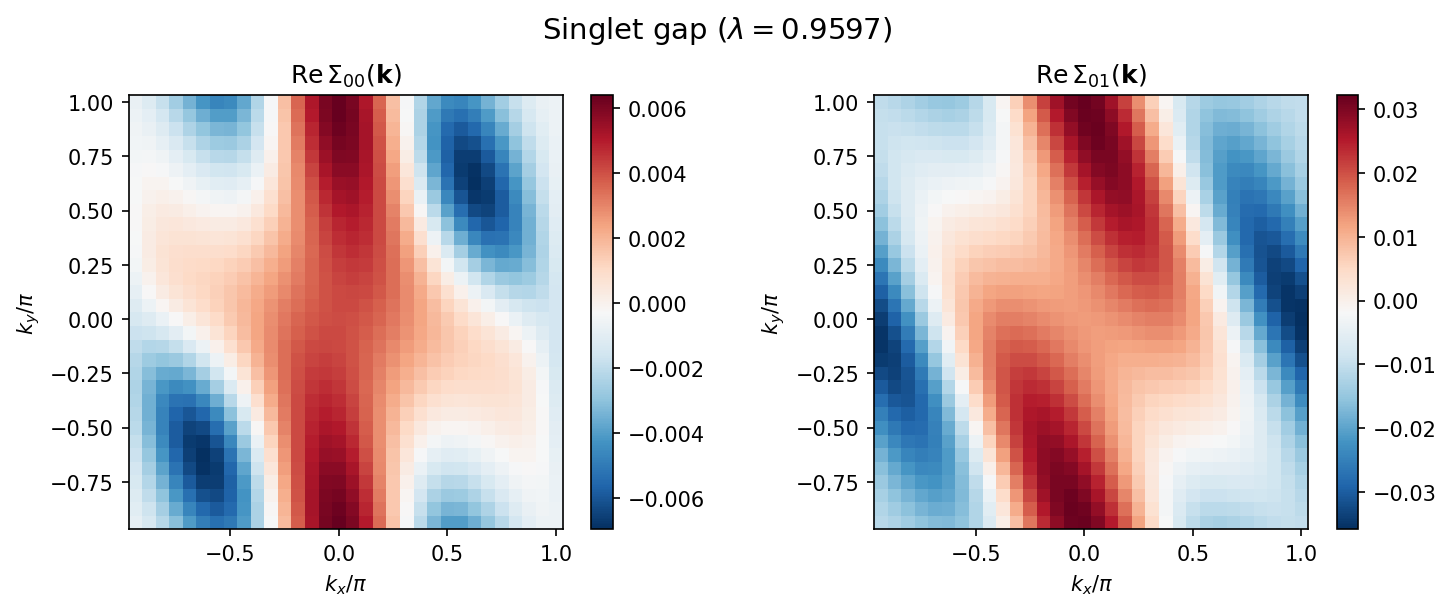
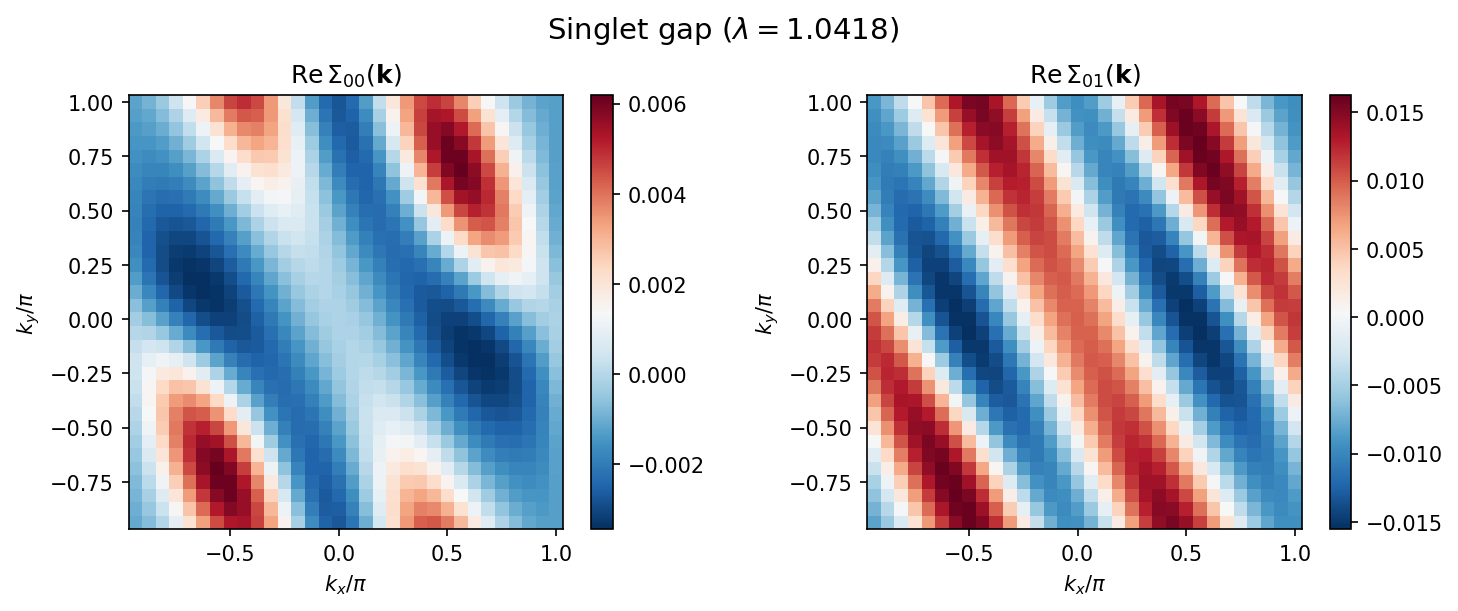
docs: rerun the superconductivity tutorial with the corrected bond placement (#232)
The tutorial's two-orbital model has inter-molecule interactions on the
same bonds as its transfer integrals, so its results change with the
placement correction: at T = 0.1 the leading physical eigenvalues are now
lambda_S = 1.04 and lambda_T = 1.17 (both above 1, triplet leading),
instead of 0.96 and 0.97. The logs, eigenvalue.dat example, gap and
spectrum figures and the discussion are regenerated from a run on this
branch (EN/JA and all three copies of the sample).

The singlet power iteration now needs 608 steps, so the sample raises
max_iter to 1000. A note explains that the numbers are not a quantitative
reproduction of Ref. [1]: the in-cell inter-molecule interaction enters
H-wave's vertex with its exchange crossing, which Ref. [1] omits.

Claude-Session: https://claude.ai/code/session_01JCrdiHddENw4ebnjgUmKce

diff --git a/docs/en/source/rpa/tutorial/sc-index.rst b/docs/en/source/rpa/tutorial/sc-index.rst
@@ -380,12 +380,12 @@ The output log shows the iteration progress:
 .. code-block:: text
 
     hwave_sc: === Self-consistent iteration ===
-    hwave_sc: Iteration    0: eigenvalue = 0.924446, diff = 3.544353e-01
-    hwave_sc: Iteration    1: eigenvalue = 0.817270, diff = 7.893848e-02
+    hwave_sc: Iteration    0: eigenvalue = 1.162617, diff = 1.165271e+00
+    hwave_sc: Iteration    1: eigenvalue = 0.345822, diff = 5.558347e-01
     ...
-    hwave_sc: Iteration  192: eigenvalue = 0.959725, diff = 9.900091e-06
-    hwave_sc: Converged at iteration 193
-    hwave_sc: Iteration result: eigenvalue = 0.959725, converged = True, n_iter = 193
+    hwave_sc: Iteration  607: eigenvalue = 1.041844, diff = 9.792150e-06
+    hwave_sc: Converged at iteration 608
+    hwave_sc: Iteration result: eigenvalue = 1.041844, converged = True, n_iter = 608
 
 followed by the eigenvalue analysis:
 
@@ -393,14 +393,14 @@ followed by the eigenvalue analysis:
 
     hwave_sc: === Eigenvalue analysis ===
     hwave_sc: Leading eigenvalues:
-    hwave_sc:     0: 0.959725 (|ev| = 0.959725)
-    hwave_sc:     1: 0.836778 (|ev| = 0.836778)
-    hwave_sc:     2: 0.810959 (|ev| = 0.810959)
-    hwave_sc:     3: -0.887954 (|ev| = 0.887954)
-    hwave_sc:     4: -1.071303 (|ev| = 1.071303)
-    hwave_sc:     5: -1.349775 (|ev| = 1.349775)
-    hwave_sc:     6: 0.976353 (|ev| = 0.976353)  [opposite-parity sector]
-    hwave_sc:     7: 0.823774 (|ev| = 0.823774)  [opposite-parity sector]
+    hwave_sc:     0: 1.041844 (|ev| = 1.041844)
+    hwave_sc:     1: -1.233988 (|ev| = 1.233988)
+    hwave_sc:     2: -1.584929 (|ev| = 1.585014)
+    hwave_sc:     3: -1.584929 (|ev| = 1.585014)
+    hwave_sc:     4: -3.067559 (|ev| = 3.067559)
+    hwave_sc:     5: 1.031822 (|ev| = 1.031822)  [opposite-parity sector]
+    hwave_sc:     6: -0.902492 (|ev| = 0.902505)  [opposite-parity sector]
+    hwave_sc:     7: -1.280675 (|ev| = 1.280675)  [opposite-parity sector]
     ...
 
 An eigenvalue :math:`\lambda > 1` (positive) indicates a superconducting instability
@@ -426,7 +426,7 @@ Gap function
 The following figures show the gap function :math:`\Sigma_{\alpha\beta}(\mathbf{k})`
 in momentum space obtained from the self-consistent iteration.
 
-**Singlet channel** (:math:`\lambda \approx 0.96`):
+**Singlet channel** (:math:`\lambda \approx 1.04`):
 
 .. figure:: ../sample_sc/gap_singlet.png
    :width: 90%
@@ -435,10 +435,10 @@ in momentum space obtained from the self-consistent iteration.
    Singlet gap function in k-space. Left: intra-orbital component
    :math:`\mathrm{Re}\,\Sigma_{00}(\mathbf{k})`.
    Right: inter-orbital component :math:`\mathrm{Re}\,\Sigma_{01}(\mathbf{k})`.
-   The inter-orbital component is about 5 times larger than the intra-orbital one,
+   The inter-orbital component is about 7 times larger than the intra-orbital one,
    indicating that inter-orbital pairing is dominant.
 
-**Triplet channel** (:math:`\lambda \approx 0.97`):
+**Triplet channel** (:math:`\lambda \approx 1.17`):
 
 .. figure:: ../sample_sc/gap_triplet.png
    :width: 90%
@@ -465,24 +465,25 @@ for both singlet and triplet channels.
    The dashed red line indicates :math:`\lambda = 1` (SC instability criterion).
    Filled markers are the **physical** eigenvalues (the gap has the channel
    parity: even for singlet, odd for triplet); open markers are **spurious**
-   opposite-parity modes. All physical eigenvalues lie below 1. The two open
-   markers above 1 are even-parity solutions of the *triplet* kernel, which the
-   Pauli principle forbids for spin-triplet pairing (see the parity note below).
+   opposite-parity modes. The leading physical eigenvalue of each channel lies
+   above 1. The open markers are opposite-parity solutions -- even-parity modes
+   of the *triplet* kernel (the largest near 2.06) and an odd-parity mode of the
+   *singlet* kernel near 1.03 -- which the Pauli principle forbids for the
+   respective spin channel (see the parity note below).
 
 The Arnoldi eigenvalue analysis finds multiple eigenvalues.
 The figure shows only positive eigenvalues, which are relevant for the
 SC instability criterion :math:`\lambda = 1`.
 For the singlet channel, the leading **physical** (even-parity) eigenvalue is
-:math:`\lambda_S \approx 0.96 < 1`, matching the self-consistent iteration
-result, so there is no singlet SC instability at this temperature.
+:math:`\lambda_S \approx 1.04 > 1`, matching the self-consistent iteration
+result. The iteration converges slowly here (608 iterations), which is why the
+sample sets ``max_iter = 1000``.
 
 For the triplet channel, the leading **physical** (odd-parity) eigenvalue is
-:math:`\lambda_T \approx 0.97 < 1`. The larger values near :math:`1.58` and
-:math:`1.09` that appear in the triplet calculation are even-parity (spurious)
-modes and are **not** triplet instabilities. The two physical channels are thus
-very close (:math:`\lambda_T \gtrsim \lambda_S`), placing this temperature near
-the singlet--triplet crossover; the actual SC transition (:math:`\lambda = 1`)
-is reached at lower temperature.
+:math:`\lambda_T \approx 1.17 > 1`. The larger values near :math:`2.06` and
+:math:`1.19` that appear in the triplet calculation are even-parity (spurious)
+modes and are **not** triplet instabilities. Both physical channels exceed 1 at
+this temperature, with the triplet leading (:math:`\lambda_T > \lambda_S`).
 
 Plotting script
 ^^^^^^^^^^^^^^^^^^^^^^^^^^^^^^^^
@@ -522,11 +523,11 @@ The eigenvalues of the linearized Eliashberg equation:
 .. code-block:: text
 
     # Iteration eigenvalue
-    9.59724792e-01
+    1.04184424e+00
     # Eigenvalue analysis
     # index  Re(eigenvalue)  Im(eigenvalue)  |eigenvalue|  match(1=channel-parity)
-       0  9.59725061e-01 -3.63739178e-12  9.59725061e-01 1
-       1  8.36778019e-01 -3.64670431e-12  8.36778019e-01 1
+       0  1.04184433e+00 -4.52434027e-12  1.04184433e+00 1
+       1 -1.23398808e+00  4.17379712e-12  1.23398808e+00 1
        ...
 
 The trailing ``match`` column is ``1`` when the eigenvector has the channel's
@@ -556,10 +557,9 @@ By varying the temperature and finding the point where the largest
 positive eigenvalue reaches :math:`\lambda = 1`, one can determine
 the superconducting transition temperature :math:`T_c`.
 
-In this example, at :math:`T = 0.1` both physical channels are just below the
-instability threshold, with :math:`\lambda_S \approx 0.96` (singlet, even) and
-:math:`\lambda_T \approx 0.97` (triplet, odd). They are nearly degenerate, with
-the triplet marginally leading.
+In this example, at :math:`T = 0.1` both physical channels are above the
+instability threshold, with :math:`\lambda_S \approx 1.04` (singlet, even) and
+:math:`\lambda_T \approx 1.17` (triplet, odd); the triplet leads.
 
 .. note::
 
@@ -578,7 +578,7 @@ the triplet marginally leading.
    ``hwave_sc`` therefore projects each self-consistent iterate onto the
    channel's parity sector, and the eigenvalue analysis labels each mode as
    physical (``match = 1``) or spurious (``match = 0``). The large values
-   :math:`\lambda \approx 1.58,\ 1.09` seen in the triplet calculation are such
+   :math:`\lambda \approx 2.06,\ 1.19` seen in the triplet calculation are such
    spurious even-parity modes, **not** triplet instabilities.
 
 Singlet vs. triplet comparison
@@ -593,13 +593,14 @@ odd-parity (triplet) seed such as ``"p_x"`` (the ready-made
 error rather than converging to an unphysical sector. Equivalently, omit
 ``init_gap`` entirely to let the solver pick the channel's parity automatically.
 At :math:`T = 0.1` with the same parameters, the leading physical eigenvalues are
-:math:`\lambda_T \approx 0.97` (triplet) and :math:`\lambda_S \approx 0.96`
-(singlet): both are below 1, and the triplet marginally leads. This places the
-sample near the singlet--triplet crossover of Ref. [1]_, where the triplet SC
-state competes with the singlet for :math:`T > 0.05`, while the singlet SC
-transition dominates at lower temperatures (:math:`T < 0.05`) due to the
-enhancement of spin fluctuations. The actual transition
-(:math:`\lambda = 1`) is reached on lowering the temperature.
+:math:`\lambda_T \approx 1.17` (triplet) and :math:`\lambda_S \approx 1.04`
+(singlet): both exceed 1, and the triplet leads. Ref. [1]_ notes that this
+RPA treatment overestimates the superconducting region at high temperature.
+These numbers are not a quantitative reproduction of Ref. [1]_: the in-cell
+inter-molecule interaction (the ``R = 0`` inter-orbital ``CoulombInter`` row)
+enters H-wave's vertex together with its exchange crossing, as an on-site
+inter-orbital interaction would, whereas Ref. [1]_ keeps only its
+density-density (Hartree) part.
 
 
 .. _sc_dynamic_frequency:
